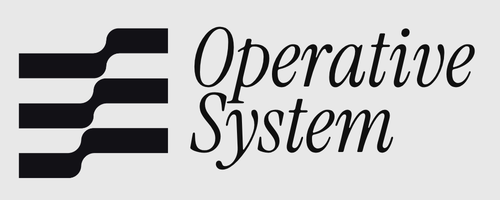
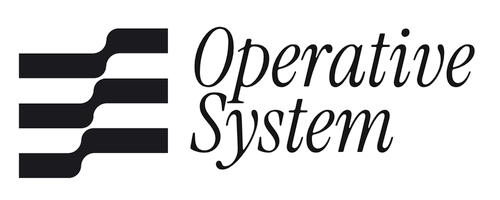
okok

diff --git a/src/app/globals.css b/src/app/globals.css
@@ -4488,7 +4488,7 @@ a {
     text-decoration: none;
   }
   .app-sidebar-logo {
-    height: var(--control-height-sm);
+    height: var(--control-height-md);
     object-fit: contain;
     object-position: left center;
     width: auto;
@@ -4633,7 +4633,7 @@ a {
 }
 .module-heading,
 .detail-heading {
-  gap: var(--space-4);
+  gap: var(--space-6);
 }
 .module-heading > div > .eyebrow {
   display: none;
@@ -4935,7 +4935,7 @@ a {
 /* Object views */
 .detail-grid {
   gap: var(--space-4);
-  margin-top: var(--space-6);
+  margin-top: var(--space-8);
 }
 .detail-card {
   min-height: 0;
@@ -4971,7 +4971,7 @@ a {
 .meeting-section,
 .task-actions-section,
 .sprint-add-card {
-  margin-top: var(--space-5);
+  margin-top: var(--space-8);
 }
 .plain-list {
   gap: var(--space-1);
@@ -5016,7 +5016,7 @@ a {
 
 /* Forms */
 .company-form {
-  margin-top: var(--space-5);
+  margin-top: var(--space-8);
 }
 .object-form {
   padding: 0;
@@ -5026,6 +5026,9 @@ a {
   border: 0;
   border-top: var(--border-width) solid var(--color-border);
   padding: var(--space-6) 0 0;
+}
+.form-actions {
+  margin-top: var(--space-7);
 }
 .object-form-task .object-form,
 .object-form-sprint .object-form,
@@ -7191,7 +7194,8 @@ a {
 
 /* Contact profile is read-only; prospecting owns new interaction capture. */
 .crm-contact-profile {
-  gap: var(--space-7);
+  display: grid;
+  gap: var(--space-8);
   max-width: 68rem;
 }
 .crm-contact-hero {
@@ -7381,6 +7385,7 @@ a {
 }
 
 .crm-company-profile {
+  display: grid;
   gap: var(--space-8);
   max-width: 1200px;
 }

diff --git a/src/foundation/navigation/app-shell.tsx b/src/foundation/navigation/app-shell.tsx
@@ -42,7 +42,8 @@ export function AppShell({ children, memberLabel, searchIsPartial, searchItems }
             className="app-sidebar-logo"
             height={200}
             priority
-            src="/2.png"
+            src="/2.png?v=transparent"
+            unoptimized
             width={500}
           />
         </Link>
